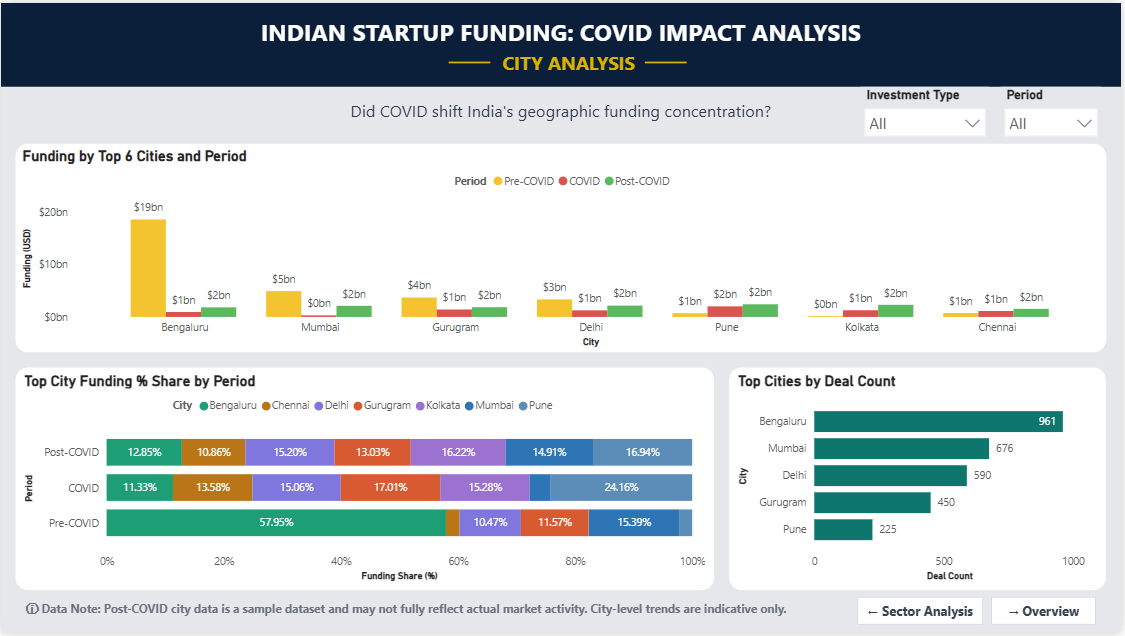
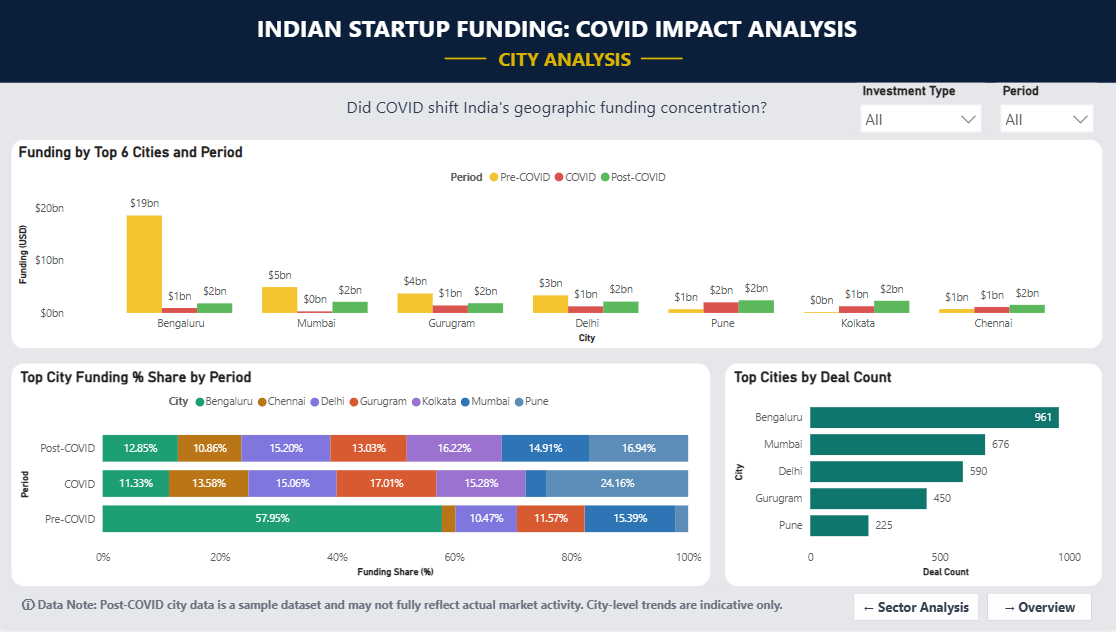
Updated Readme

diff --git a/README.md b/README.md
@@ -18,6 +18,22 @@ The analysis covers the full pipeline — data cleaning in Python, structured qu
 
 ---
 
+## 🖥️ Dashboard Preview
+
+**Page 1 — Overview**
+
+![Dashboard Overview](screenshots/page1_overview.png)
+
+**Page 2 — Sector Analysis**
+
+![Sector Analysis](screenshots/page2_sector_analysis.png)
+
+**Page 3 — City Analysis**
+
+![City Analysis](screenshots/page3_city_analysis.png)
+
+---
+
 ## 👥 Stakeholders
 
 - **Startup Founders** — To understand which sectors and cities have historically attracted funding, and how macro shocks like a pandemic affect investor behavior
@@ -125,22 +141,6 @@ The raw data came from two separate sources and needed significant work before i
 **Investment Type Insights**
 - **Seed** rounds were the most active investment type during COVID by deal count
 - **Growth** rounds carried the largest average deal size at ~$234M
-
----
-
-## 🖥️ Dashboard Preview
-
-**Page 1 — Overview**
-
-![Dashboard Overview](screenshots/page1_overview.png)
-
-**Page 2 — Sector Analysis**
-
-![Sector Analysis](screenshots/page2_sector_analysis.png)
-
-**Page 3 — City Analysis**
-
-![City Analysis](screenshots/page3_city_analysis.png)
 
 ---
 